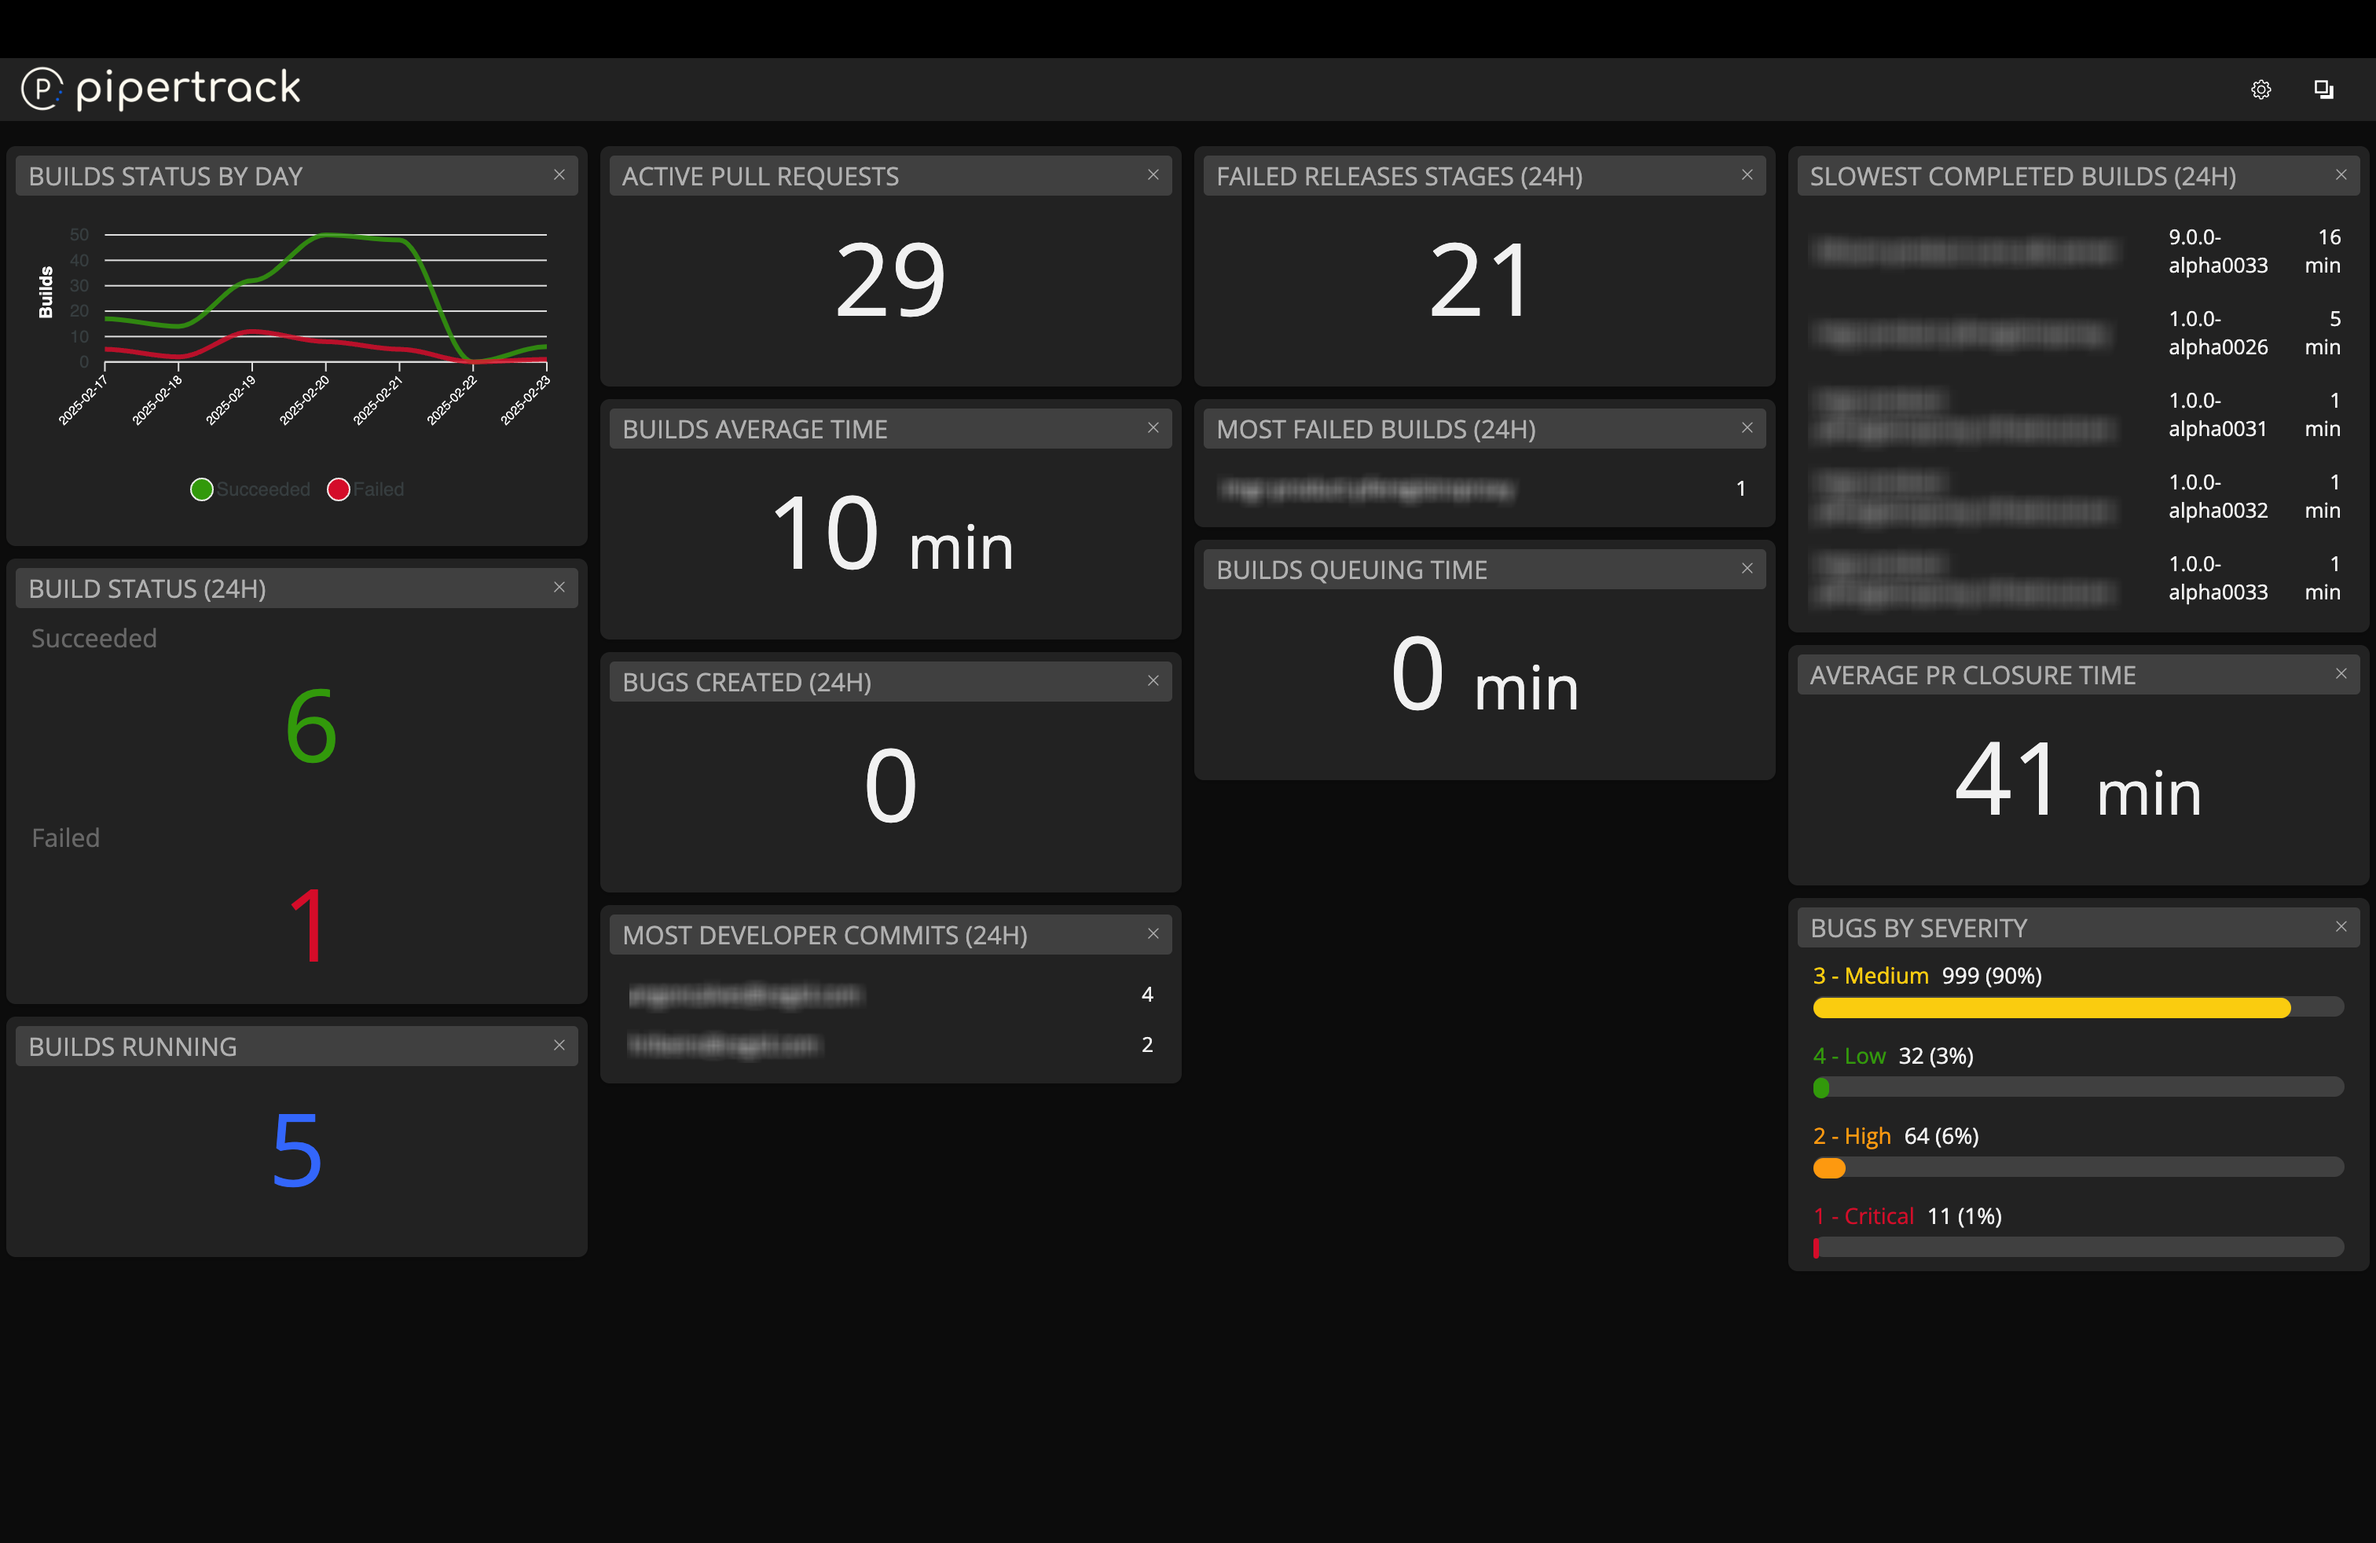
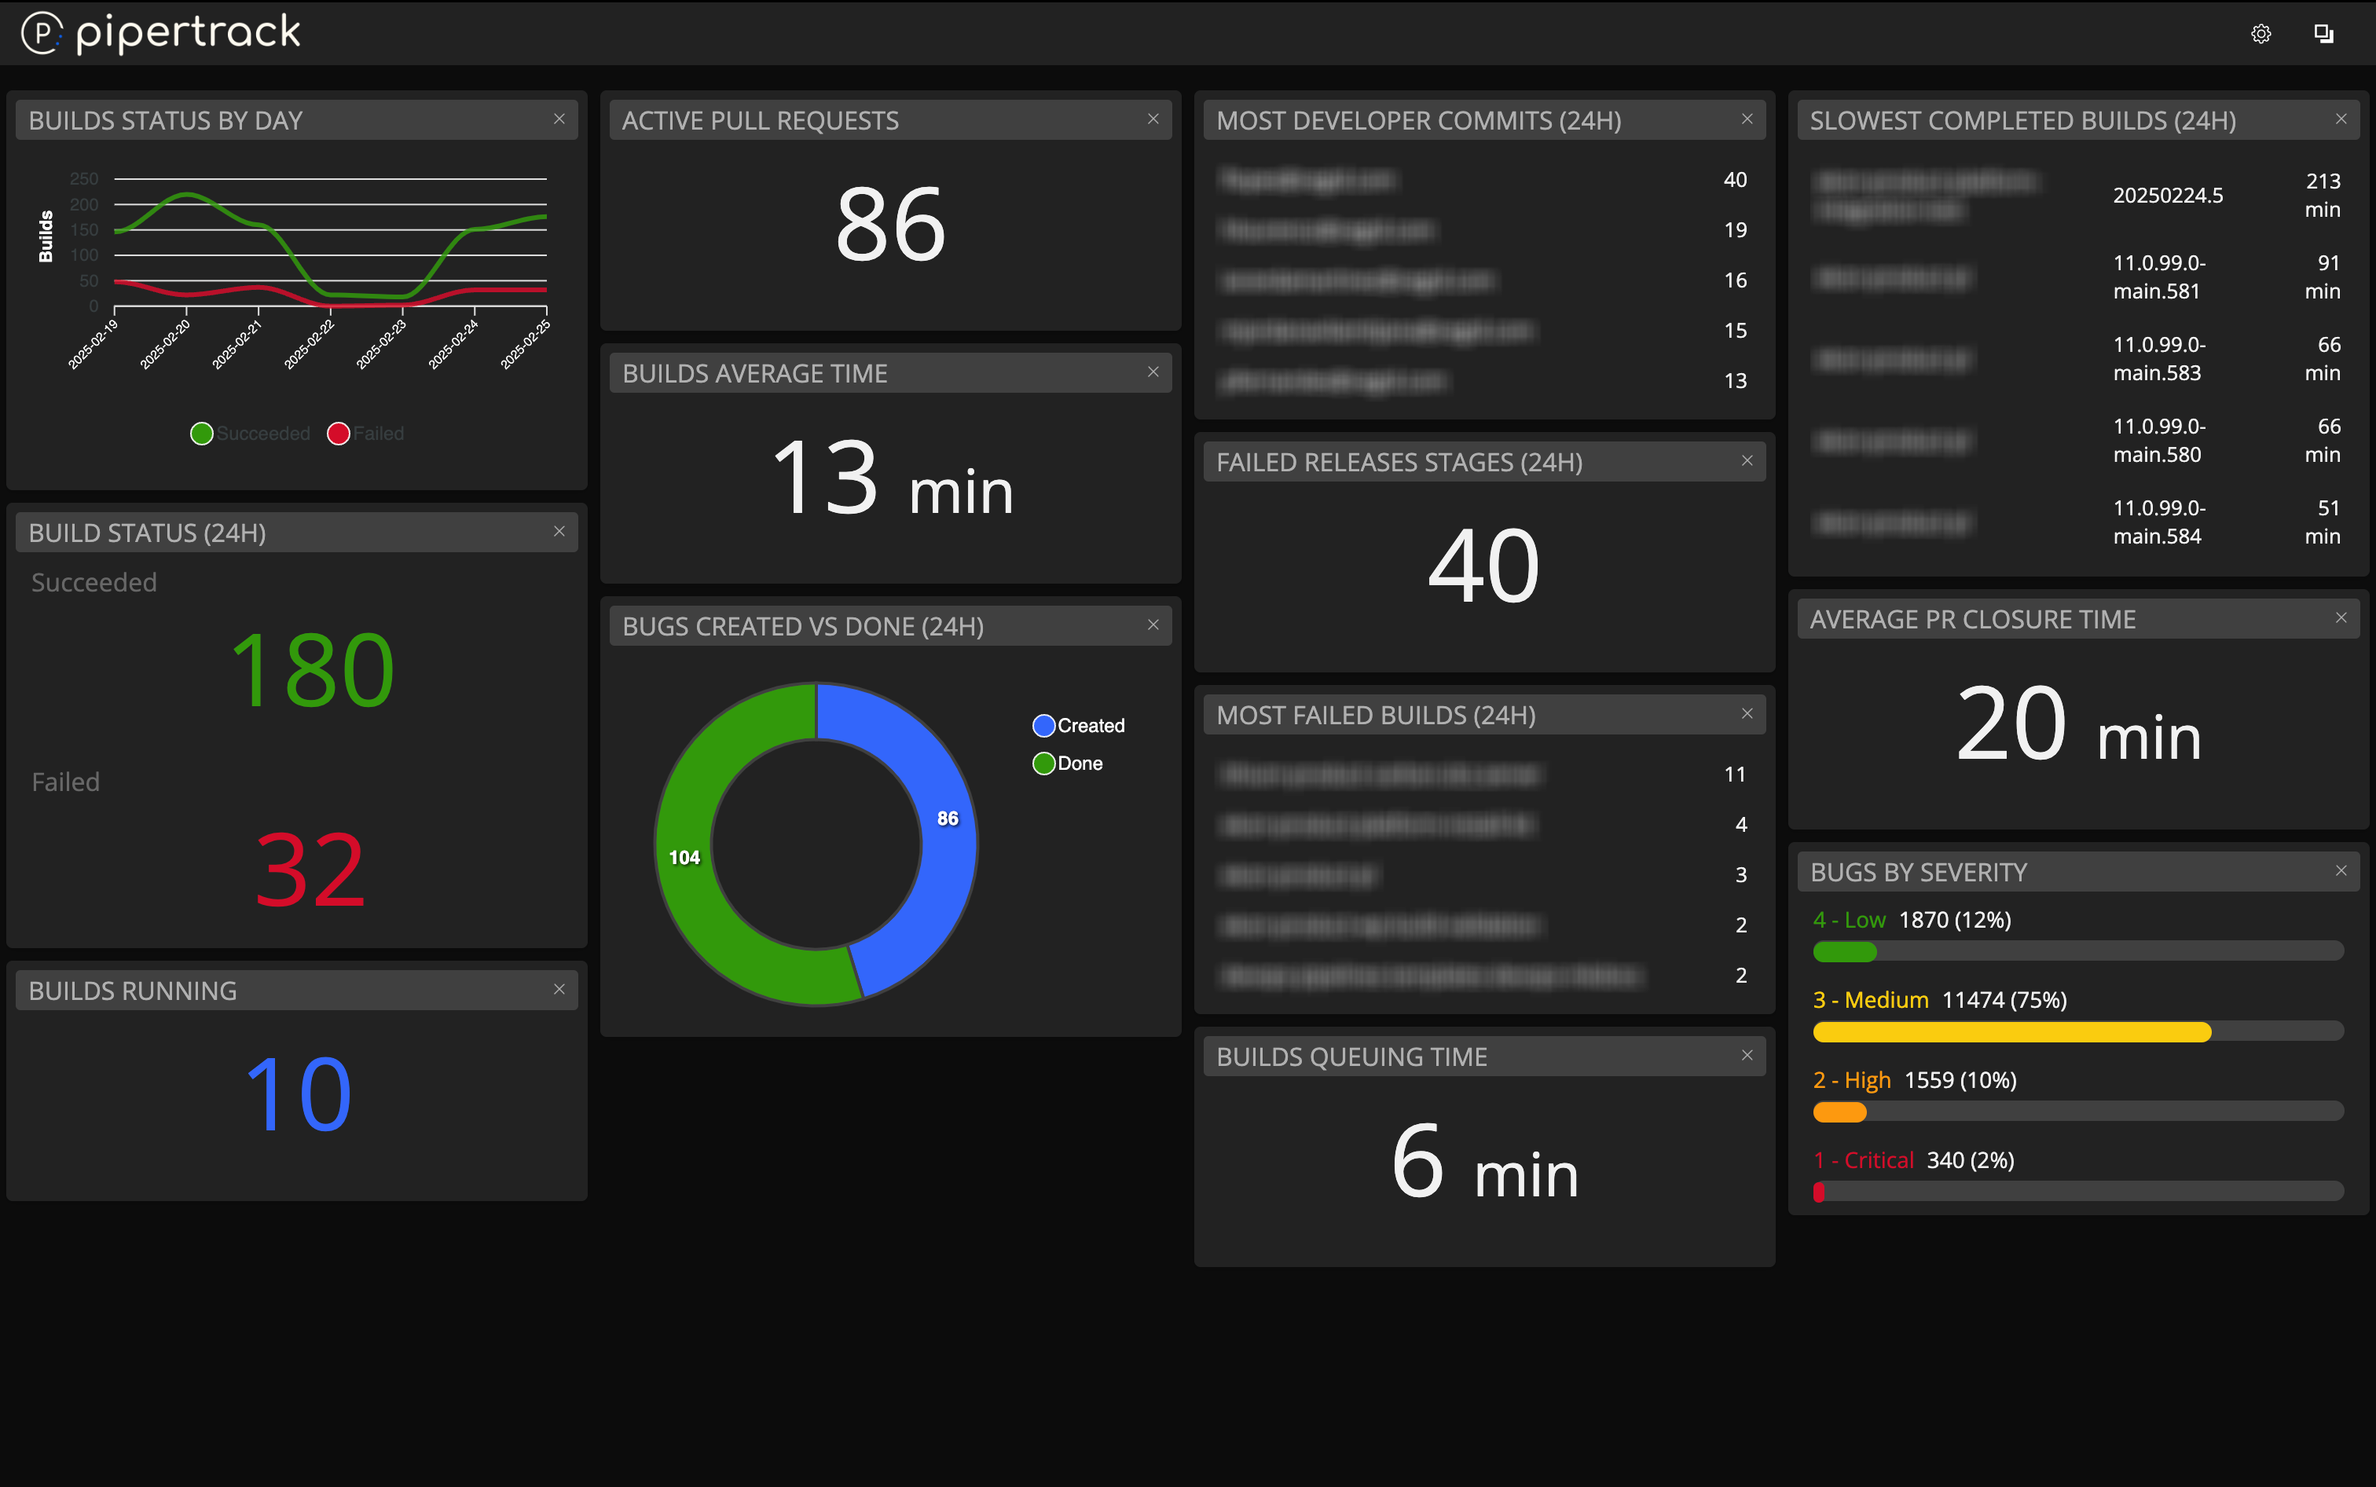
update docs

Changed region(s): [[0.0, 0.0, 1.0, 0.8415], [0.0, 0.2805, 0.2487, 0.4987], [0.0933, 0.561, 0.1554, 0.6233]]

diff --git a/README.md b/README.md
@@ -12,8 +12,8 @@ Pipertrack is an intuitive application that provides a live dashboard for tracki
 - **Successful and Failed Builds (Last 7 Days)**  
   A graph that displays the count of successful and failed builds over the past 7 days.
 
-- **Bugs Created (Last 24 Hours)**  
-  A snapshot of bugs created within the last 24 hours.
+- **Bugs Created vs Done(Last 24 Hours)**  
+  A snapshot of bugs created vs Done within the last 24 hours.
 
 - **Longest Running Builds**  
   Track the builds that took the longest time to complete.
